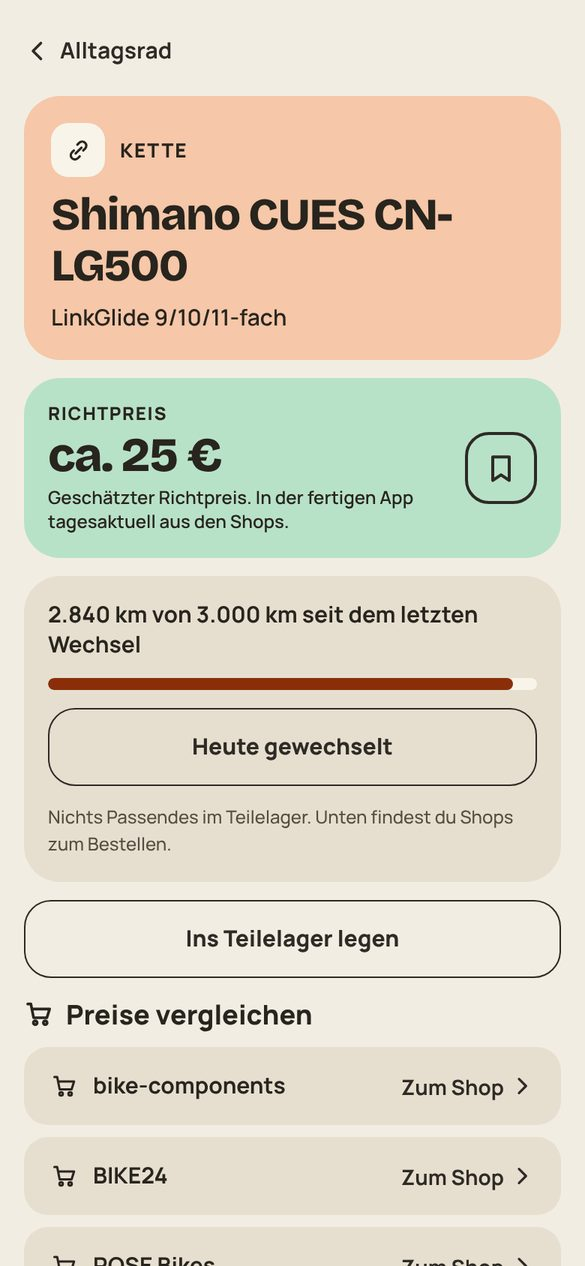
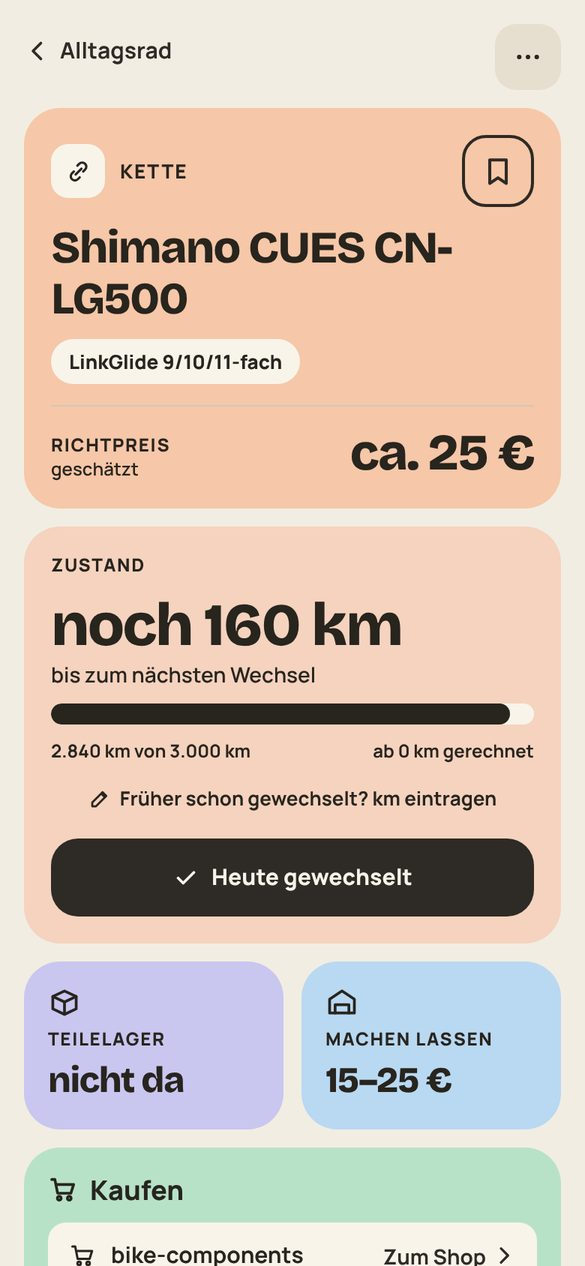
Neuer App-Stand: Teil-Seite, Passt auch mit Preisunterschied, 500+ Räder im Katalog
- Screens der neuen Teil-Seite (noch X km, Heute gewechselt, Verlauf)
- Kacheln Kilometer-Korrektur und kommende Konten ohne Passwort
- Verbesserung vorschlagen im Community-Block
- Katalogzahlen: 500+ Räder, 24 Marken, über 1.300 Teile

Claude-Session: https://claude.ai/code/session_01TTjsj2NLjWZLxTSvoQEhZw

diff --git a/index.html b/index.html
@@ -234,9 +234,9 @@ body { padding-top: env(safe-area-inset-top, 0px); }
         <p>Die ersten 500 bekommen die App, bevor sie im Store ist.</p>
       </div>
       <div class="t k1 katalog">
-        <div class="num">120+</div>
+        <div class="num">500+</div>
         <h3>Räder im Katalog</h3>
-        <p>Mit über 600 Teilen, und es werden täglich mehr.</p>
+        <p>Von 24 Marken, mit über 1.300 Teilen. Und es werden täglich mehr.</p>
       </div>
     </section>
 
@@ -292,14 +292,14 @@ body { padding-top: env(safe-area-inset-top, 0px); }
           <div class="eyebrow">Was die App kann</div>
           <h2 id="f-titel">Alles rund um dein Rad, in einer App.</h2>
         </div>
-        <p>Vom Kilometerstand bis zum passenden Ersatzteil. Deine Garage bleibt dabei auf deinem Handy.</p>
+        <p>Vom Kilometerstand bis zum passenden Ersatzteil, für jedes Rad in deiner Garage.</p>
       </div>
       <div class="raster">
         <div class="t k4 f tall">
           <span class="ic"><svg viewBox="0 0 24 24" aria-hidden="true"><path d="M3 9h18v6H3z"/><path d="M7 9v3M11 9v3M15 9v3M19 9v2"/></svg></span>
           <h3>Verschleiß im Blick</h3>
-          <p>Kilometer eintragen, und die App zeigt, wann Kette, Kassette oder Beläge fällig sind. Nach dem Tausch tippst du auf „Heute gewechselt“.</p>
-          <div class="phonebox"><img class="phone" src="img/rad.jpg" alt="Rad-Ansicht: nächster Wechsel Kette, 95 Prozent verschlissen, dazu Wartungsheft und Kilometerstand"></div>
+          <p>Jedes Teil zeigt groß, wie viele Kilometer es noch hält. Nach dem Tausch ein Tipp auf „Heute gewechselt“, und der Wechsel steht im Verlauf und im Wartungsheft.</p>
+          <div class="phonebox"><img class="phone" src="img/teil.jpg" alt="Teil-Ansicht der Kette: noch 160 km bis zum nächsten Wechsel, darunter der Knopf „Heute gewechselt“"></div>
         </div>
         <div class="t k2 f">
           <span class="ic"><svg viewBox="0 0 24 24" aria-hidden="true"><path d="M3 10l9-6 9 6v10H3z"/><path d="M7 20v-6h10v6"/></svg></span>
@@ -313,8 +313,8 @@ body { padding-top: env(safe-area-inset-top, 0px); }
         </div>
         <div class="t k1 f">
           <span class="ic"><svg viewBox="0 0 24 24" aria-hidden="true"><path d="M5 12.5l4.5 4.5L19 7.5"/></svg></span>
-          <h3>Teile, die wirklich passen</h3>
-          <p>Originalteil und Alternativen mit gleicher Norm: günstiger, besser oder langlebiger.</p>
+          <h3>Kilometer, die stimmen</h3>
+          <p>Verzählt? Den Kilometerstand korrigierst du mit einem Tipp. Frühere Wechsel trägst du einfach nach.</p>
         </div>
         <div class="t k5 f">
           <span class="ic"><svg viewBox="0 0 24 24" aria-hidden="true"><path d="M3.5 12.5V4h8.5l8.5 8.5-8.5 8.5z"/><circle cx="8" cy="8.5" r="1.4"/></svg></span>
@@ -324,13 +324,13 @@ body { padding-top: env(safe-area-inset-top, 0px); }
         <div class="t k3 f">
           <span class="ic"><svg viewBox="0 0 24 24" aria-hidden="true"><path d="M14.7 6.3a4 4 0 0 0-5.4 5.4L3.5 17.5a2.1 2.1 0 0 0 3 3l5.8-5.8a4 4 0 0 0 5.4-5.4l-2.6 2.6-2.4-.6-.6-2.4z"/></svg></span>
           <h3>Selbst machen oder machen lassen?</h3>
-          <p>Wie schwer der Wechsel ist, welches Werkzeug du brauchst und was die Werkstatt etwa kostet.</p>
+          <p>Level, Dauer, Werkzeug und eine Anleitung in Schritten. Oder du siehst, was die Werkstatt etwa verlangt.</p>
         </div>
         <div class="t k1 f tall">
           <span class="ic"><svg viewBox="0 0 24 24" aria-hidden="true"><path d="M3 4h2.5l2.2 11h10.6L20.5 8H7"/><circle cx="9" cy="19" r="1.5"/><circle cx="17" cy="19" r="1.5"/></svg></span>
-          <h3>Das richtige Teil, sofort</h3>
-          <p>Tipp ein Teil an und sieh Richtpreis, Kilometer seit dem Wechsel und Shops zum Bestellen.</p>
-          <div class="phonebox"><img class="phone" src="img/teil.jpg" alt="Teil-Ansicht der Kette Shimano CUES CN-LG500 mit Richtpreis ca. 25 Euro und Kilometerbalken"></div>
+          <h3>Passt auch: Alternativen mit Preisvergleich</h3>
+          <p>Zu jedem Teil siehst du Alternativen mit gleicher Norm und sofort, wie viel günstiger oder teurer sie sind. Dazu Shops zum Bestellen.</p>
+          <div class="phonebox"><img class="phone" src="img/passt.jpg" alt="Teil-Ansicht mit „Passt auch“: drei passende Ketten mit Preisunterschied, darunter der Verlauf der Wechsel"></div>
         </div>
         <div class="t k2 f">
           <span class="ic"><svg viewBox="0 0 24 24" aria-hidden="true"><path d="M5 4h11a3 3 0 0 1 3 3v13H8a3 3 0 0 1-3-3z"/><path d="M5 17a3 3 0 0 1 3-3h11M9 8h6"/></svg></span>
@@ -344,8 +344,8 @@ body { padding-top: env(safe-area-inset-top, 0px); }
         </div>
         <div class="t k5 f">
           <span class="ic"><svg viewBox="0 0 24 24" aria-hidden="true"><path d="M5.5 11h13v9.5h-13z"/><path d="M8.5 11V8a3.5 3.5 0 0 1 7 0v3M12 14.5v2.5"/></svg></span>
-          <h3>Deine Daten bleiben bei dir</h3>
-          <p>Garage, Lager und Wartungsheft liegen auf deinem Handy. Online ist nur der gemeinsame Katalog.</p>
+          <h3>Bald mit Konto, ohne Passwort</h3>
+          <p>Anmelden per Apple, Google oder E-Mail-Code. Deine Garage ist gesichert und zieht mit aufs neue Handy. Persönliche Daten verkaufen wir nicht.</p>
         </div>
       </div>
     </section>
@@ -358,10 +358,10 @@ body { padding-top: env(safe-area-inset-top, 0px); }
           <p>Kein Katalog kennt jedes Rad und jedes Teil. Darum wächst die Radgarage mit ihrer Community: Jeder Scan und jedes neue Rad macht die App für alle besser, so wie bei OpenStreetMap oder Open Food Facts.</p>
           <ol class="steps">
             <li><span><strong>Scannen.</strong> Du scannst den Barcode auf der Verpackung. Kennt die App das Teil, sind Name, Preis und Shops sofort da.</span></li>
-            <li><span><strong>Vorschlagen.</strong> Unbekannter Code? Trag kurz ein, was auf der Packung steht. Fehlt dein Rad im Katalog, legst du es genauso an.</span></li>
+            <li><span><strong>Vorschlagen.</strong> Unbekannter Code? Trag kurz ein, was auf der Packung steht. Fehlt dein Rad, legst du es an. Stimmt an einem Rad im Katalog etwas nicht, tippst du auf „Verbesserung vorschlagen“.</span></li>
             <li><span><strong>Für alle im Katalog.</strong> Wir prüfen den Vorschlag und nehmen ihn auf. Ab dann findet jeder das Teil mit einem Scan.</span></li>
           </ol>
-          <p class="note">Ein Vorschlag enthält nur Code, Name, Teileart und Preis, keine Daten über dich.</p>
+          <p class="note">Ein Vorschlag enthält nur das Teil oder Rad und deinen Hinweis, keine Daten über dich.</p>
           <a class="pill light" href="#anmelden">Als Tester mitbauen</a>
         </div>
         <div class="phonebox"><img class="phone" src="img/scan.jpg" alt="Scan eines unbekannten Barcodes: Die App bittet, Teileart, Name und Preis einzutragen, damit das Teil in den Katalog kommt"></div>
